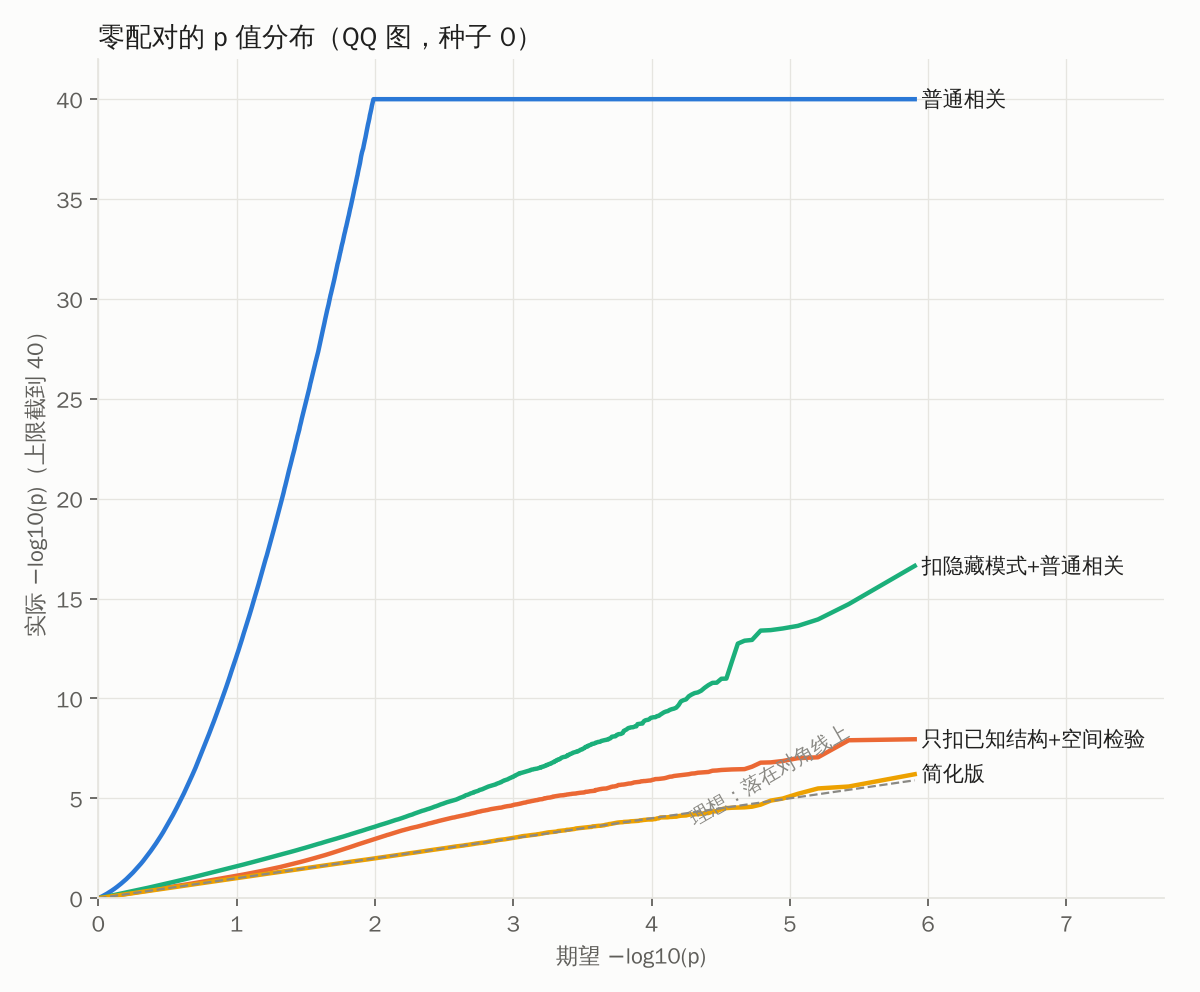
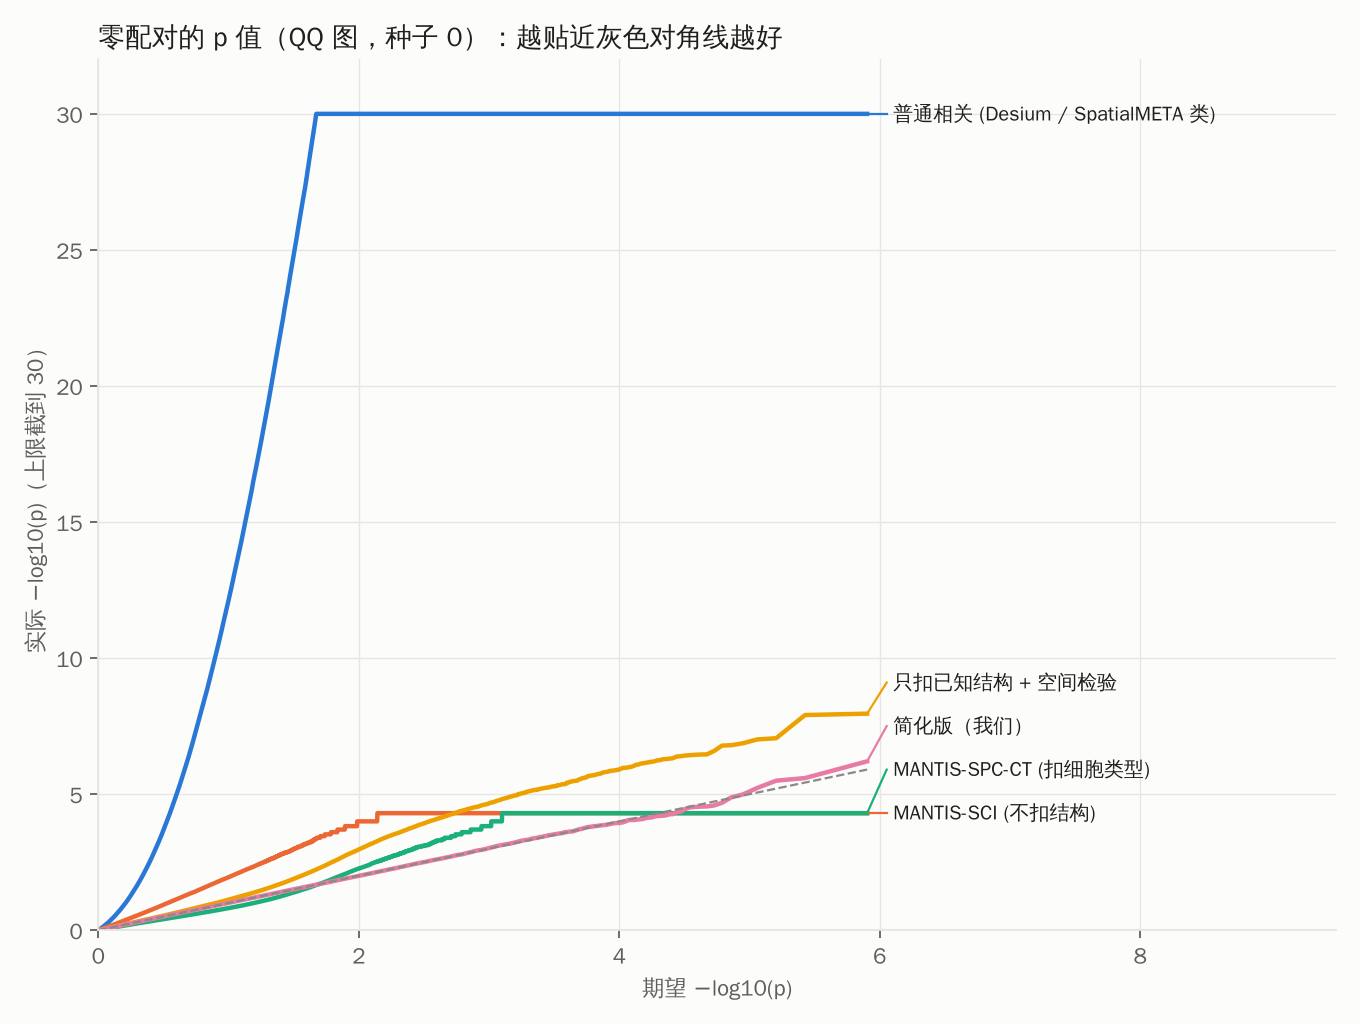
Benchmark against MANTIS SCI/SPC-CT on 5 simulation seeds, add figures
Claude-Session: https://claude.ai/code/session_01B44jMJewPVGQvMfcJ3H7xV

diff --git a/scripts/plot_sim.py b/scripts/plot_sim.py
@@ -114,8 +114,8 @@ def fig2():
         yy = y + (h / 2 + 0.02) * (1 - 2 * i)
         axes[0].barh(yy, v, height=h, color=SERIES[i], label=name, xerr=e,
                      error_kw={"ecolor": INK2, "lw": 1, "capsize": 0})
-        for a, b in zip(yy, v):
-            axes[0].text(b + 2, a, f"{b:.1f}%", va="center", fontsize=8.5, color=INK2)
+        for a, b, c in zip(yy, v, e):
+            axes[0].text(b + c + 1.5, a, f"{b:.1f}%", va="center", fontsize=8.5, color=INK2)
     axes[0].axvline(5, color=INK, lw=1, ls="--")
     axes[0].set_title("误报率（p < 0.05，虚线 = 5%）", loc="left")
     axes[0].set_xlim(0, 105)
@@ -125,11 +125,11 @@ def fig2():
         v = np.array([avg[m][key] for m in methods]) * 100
         e = np.array([sd[m][key] for m in methods]) * 100
         ax.barh(y, v, height=0.55, color=SERIES[0], xerr=e, error_kw={"ecolor": INK2, "lw": 1, "capsize": 0})
-        for a, b in zip(y, v):
-            ax.text(b + 2, a, f"{b:.1f}%", va="center", fontsize=8.5, color=INK2)
+        for a, b, c in zip(y, v, e):
+            ax.text(min(b + c, 100) + 1.5, a, f"{b:.1f}%", va="center", fontsize=8.5, color=INK2)
         if ref:
             ax.axvline(ref, color=INK, lw=1, ls="--")
-        ax.set_title(title, loc="left"); ax.set_xlim(0, 115)
+        ax.set_title(title, loc="left"); ax.set_xlim(0, 118)
     axes[0].set_yticks(y); axes[0].set_yticklabels([LABEL[m] for m in methods])
     for t, m in zip(axes[0].get_yticklabels(), methods):
         if m == "简化版":
